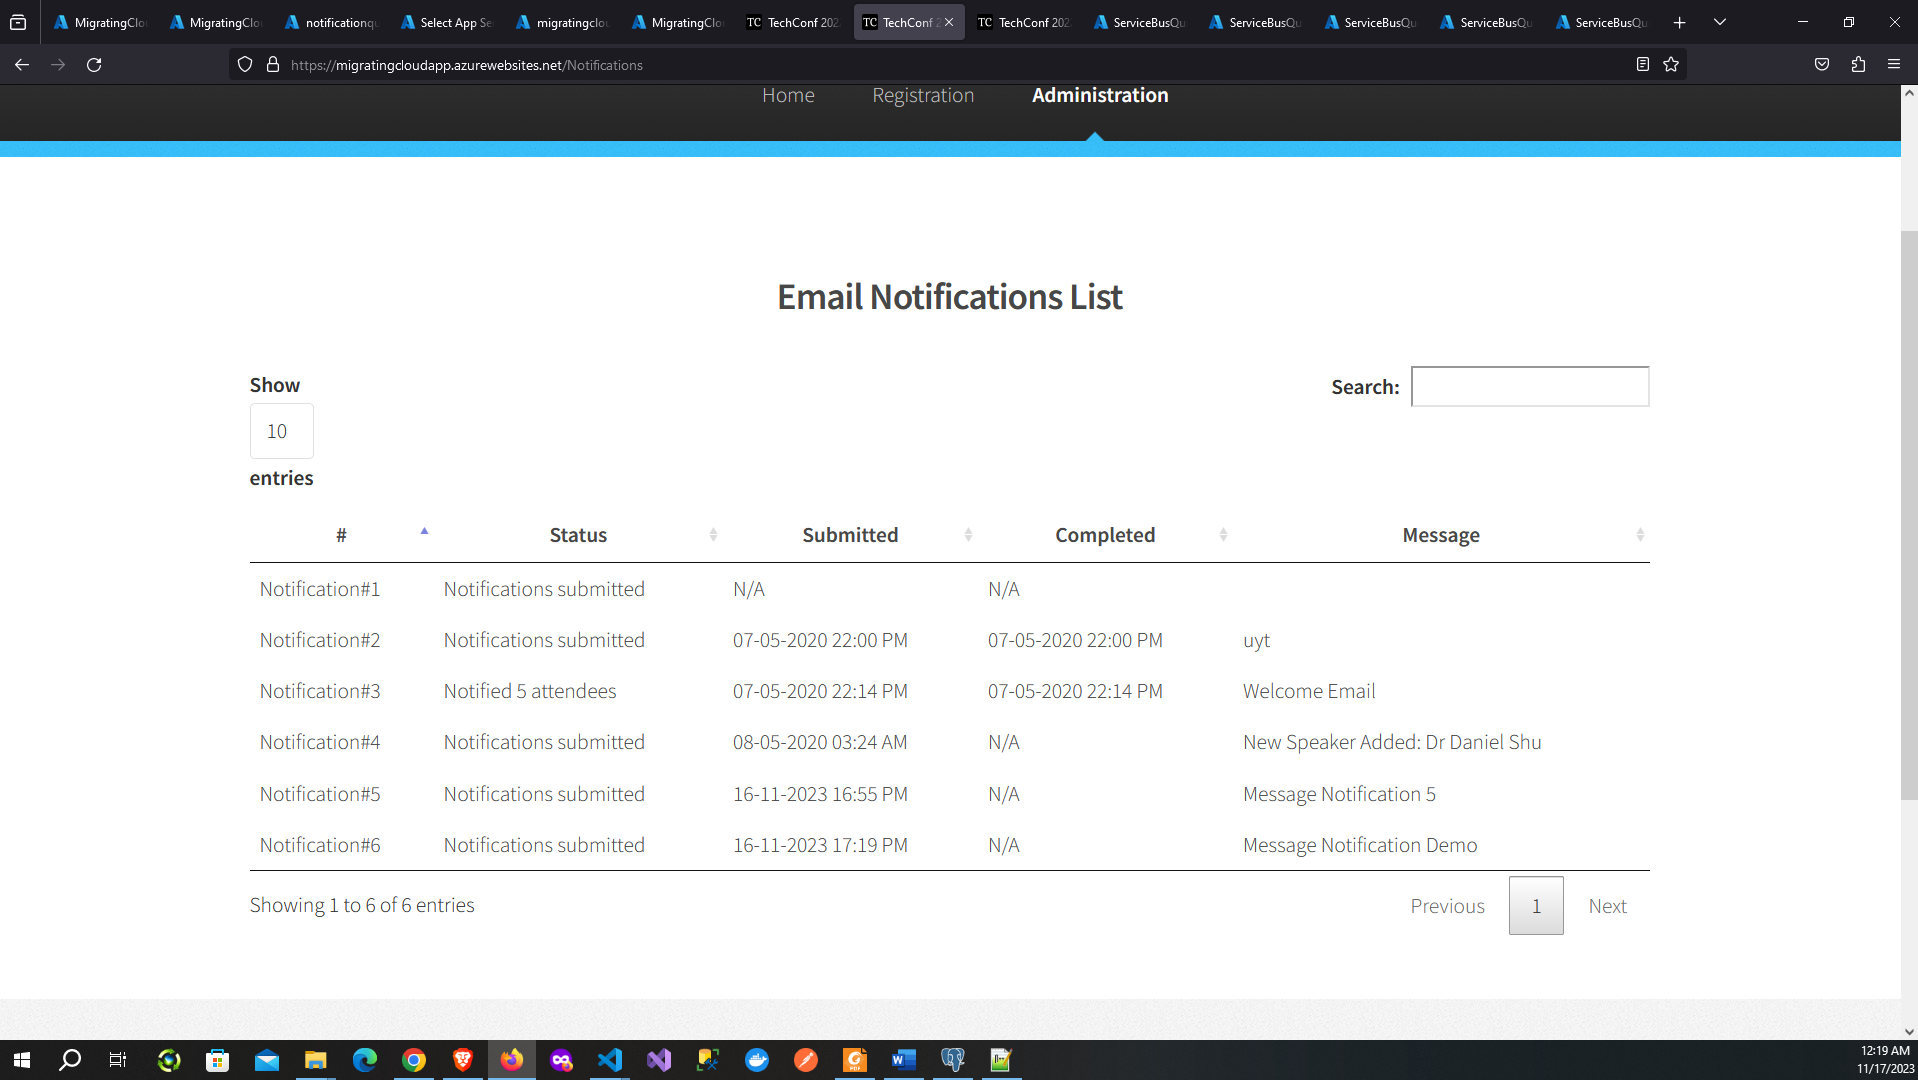
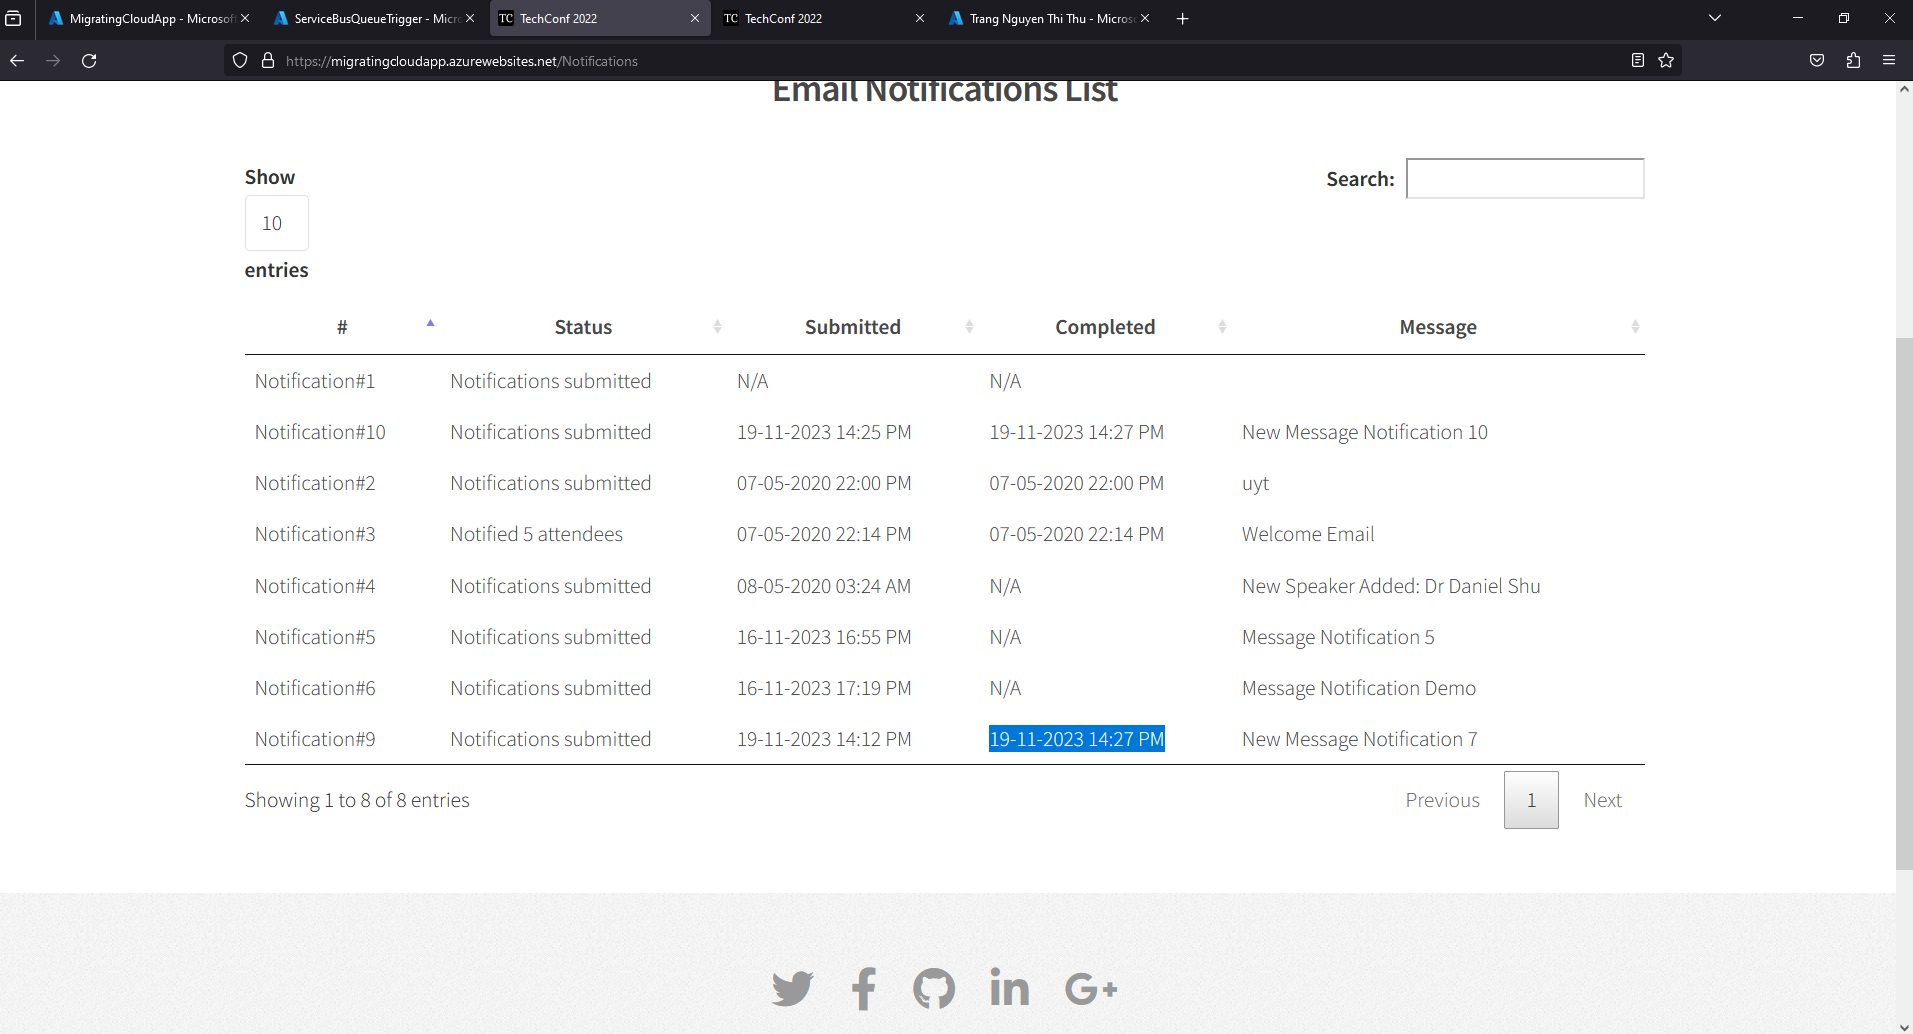
update commandand NotificationsList Images

diff --git a/function/ServiceBusQueueTrigger/__init__.py b/function/ServiceBusQueueTrigger/__init__.py
@@ -58,7 +58,8 @@ def main(msg: func.ServiceBusMessage):
         notificationRow.completed_date = datetime.utcnow()
         notificationRow.status = 'Notified {} attendees'.format(len(attendeeRows))
 
-        update_query = cursor.execute("UPDATE notification SET status = '{}', completed_date = '{}' WHERE id = {};".format(notificationRow.status, notificationRow.completed_date, notification_id))    
+        command = f"UPDATE notification SET completed_date= '{str(datetime.now())}' WHERE id={str(notification_id)}"
+        cursor.execute(command)
         
         # Cleanup
         conn.commit()
